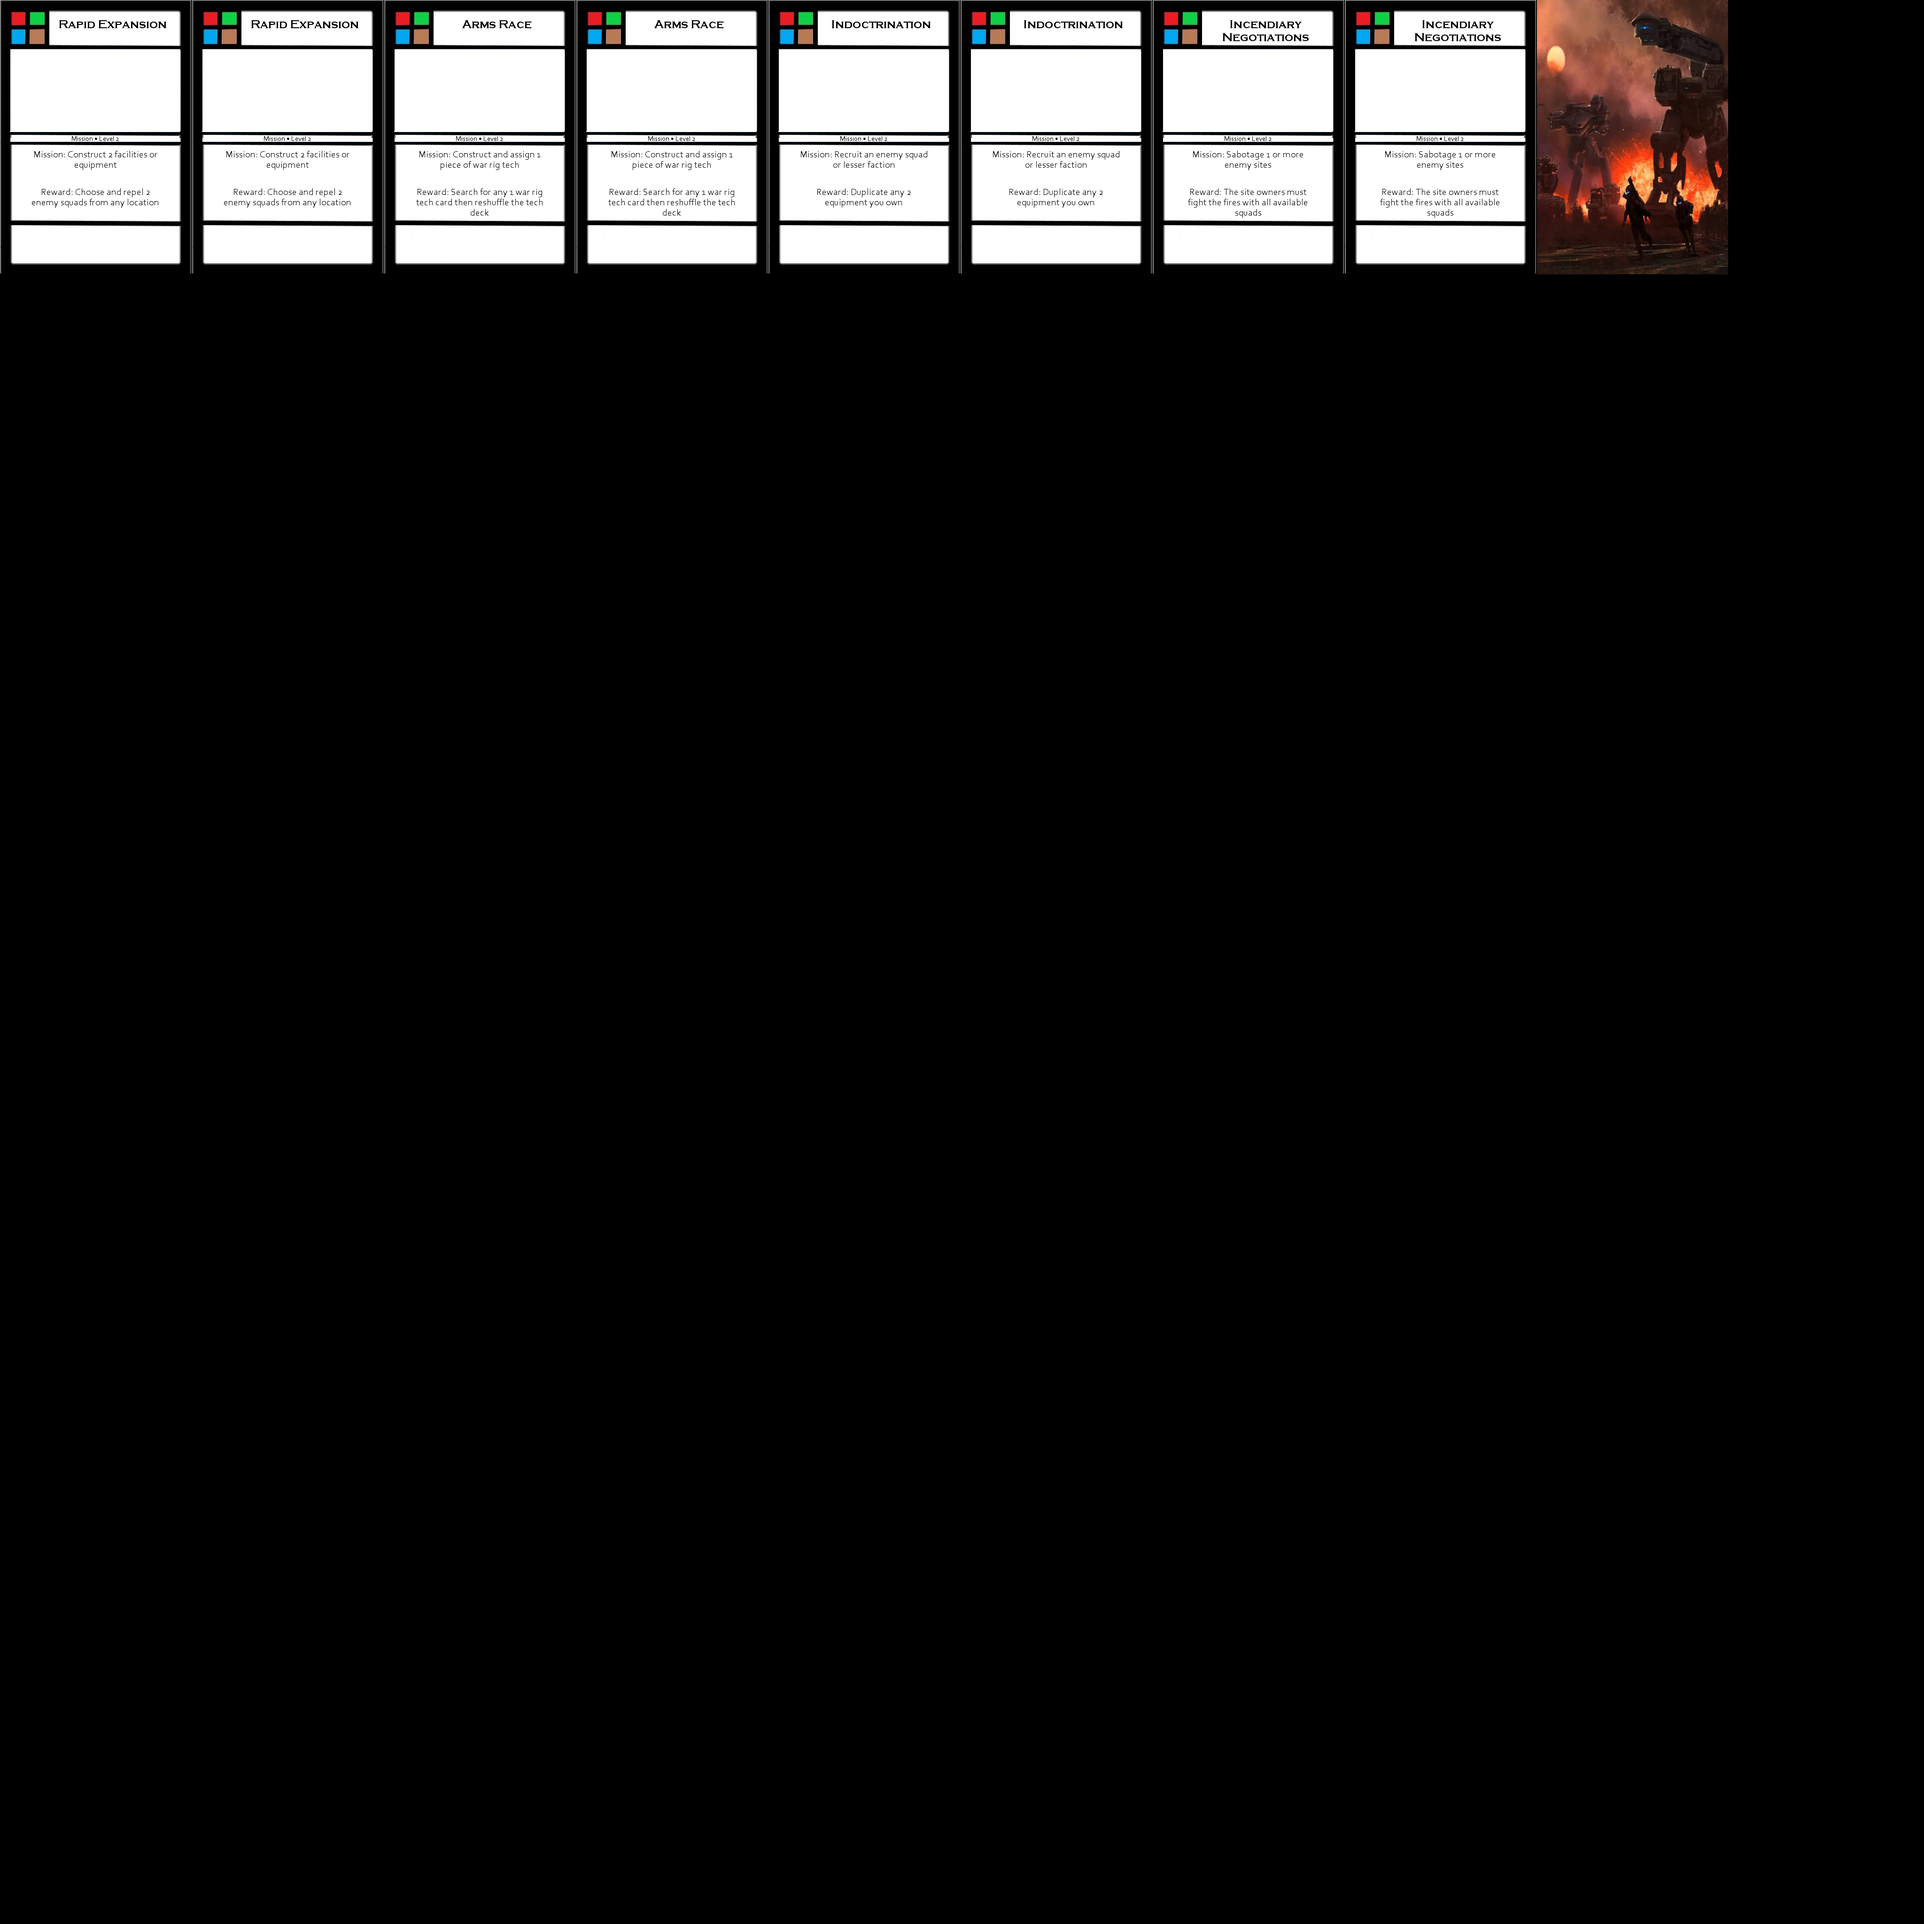
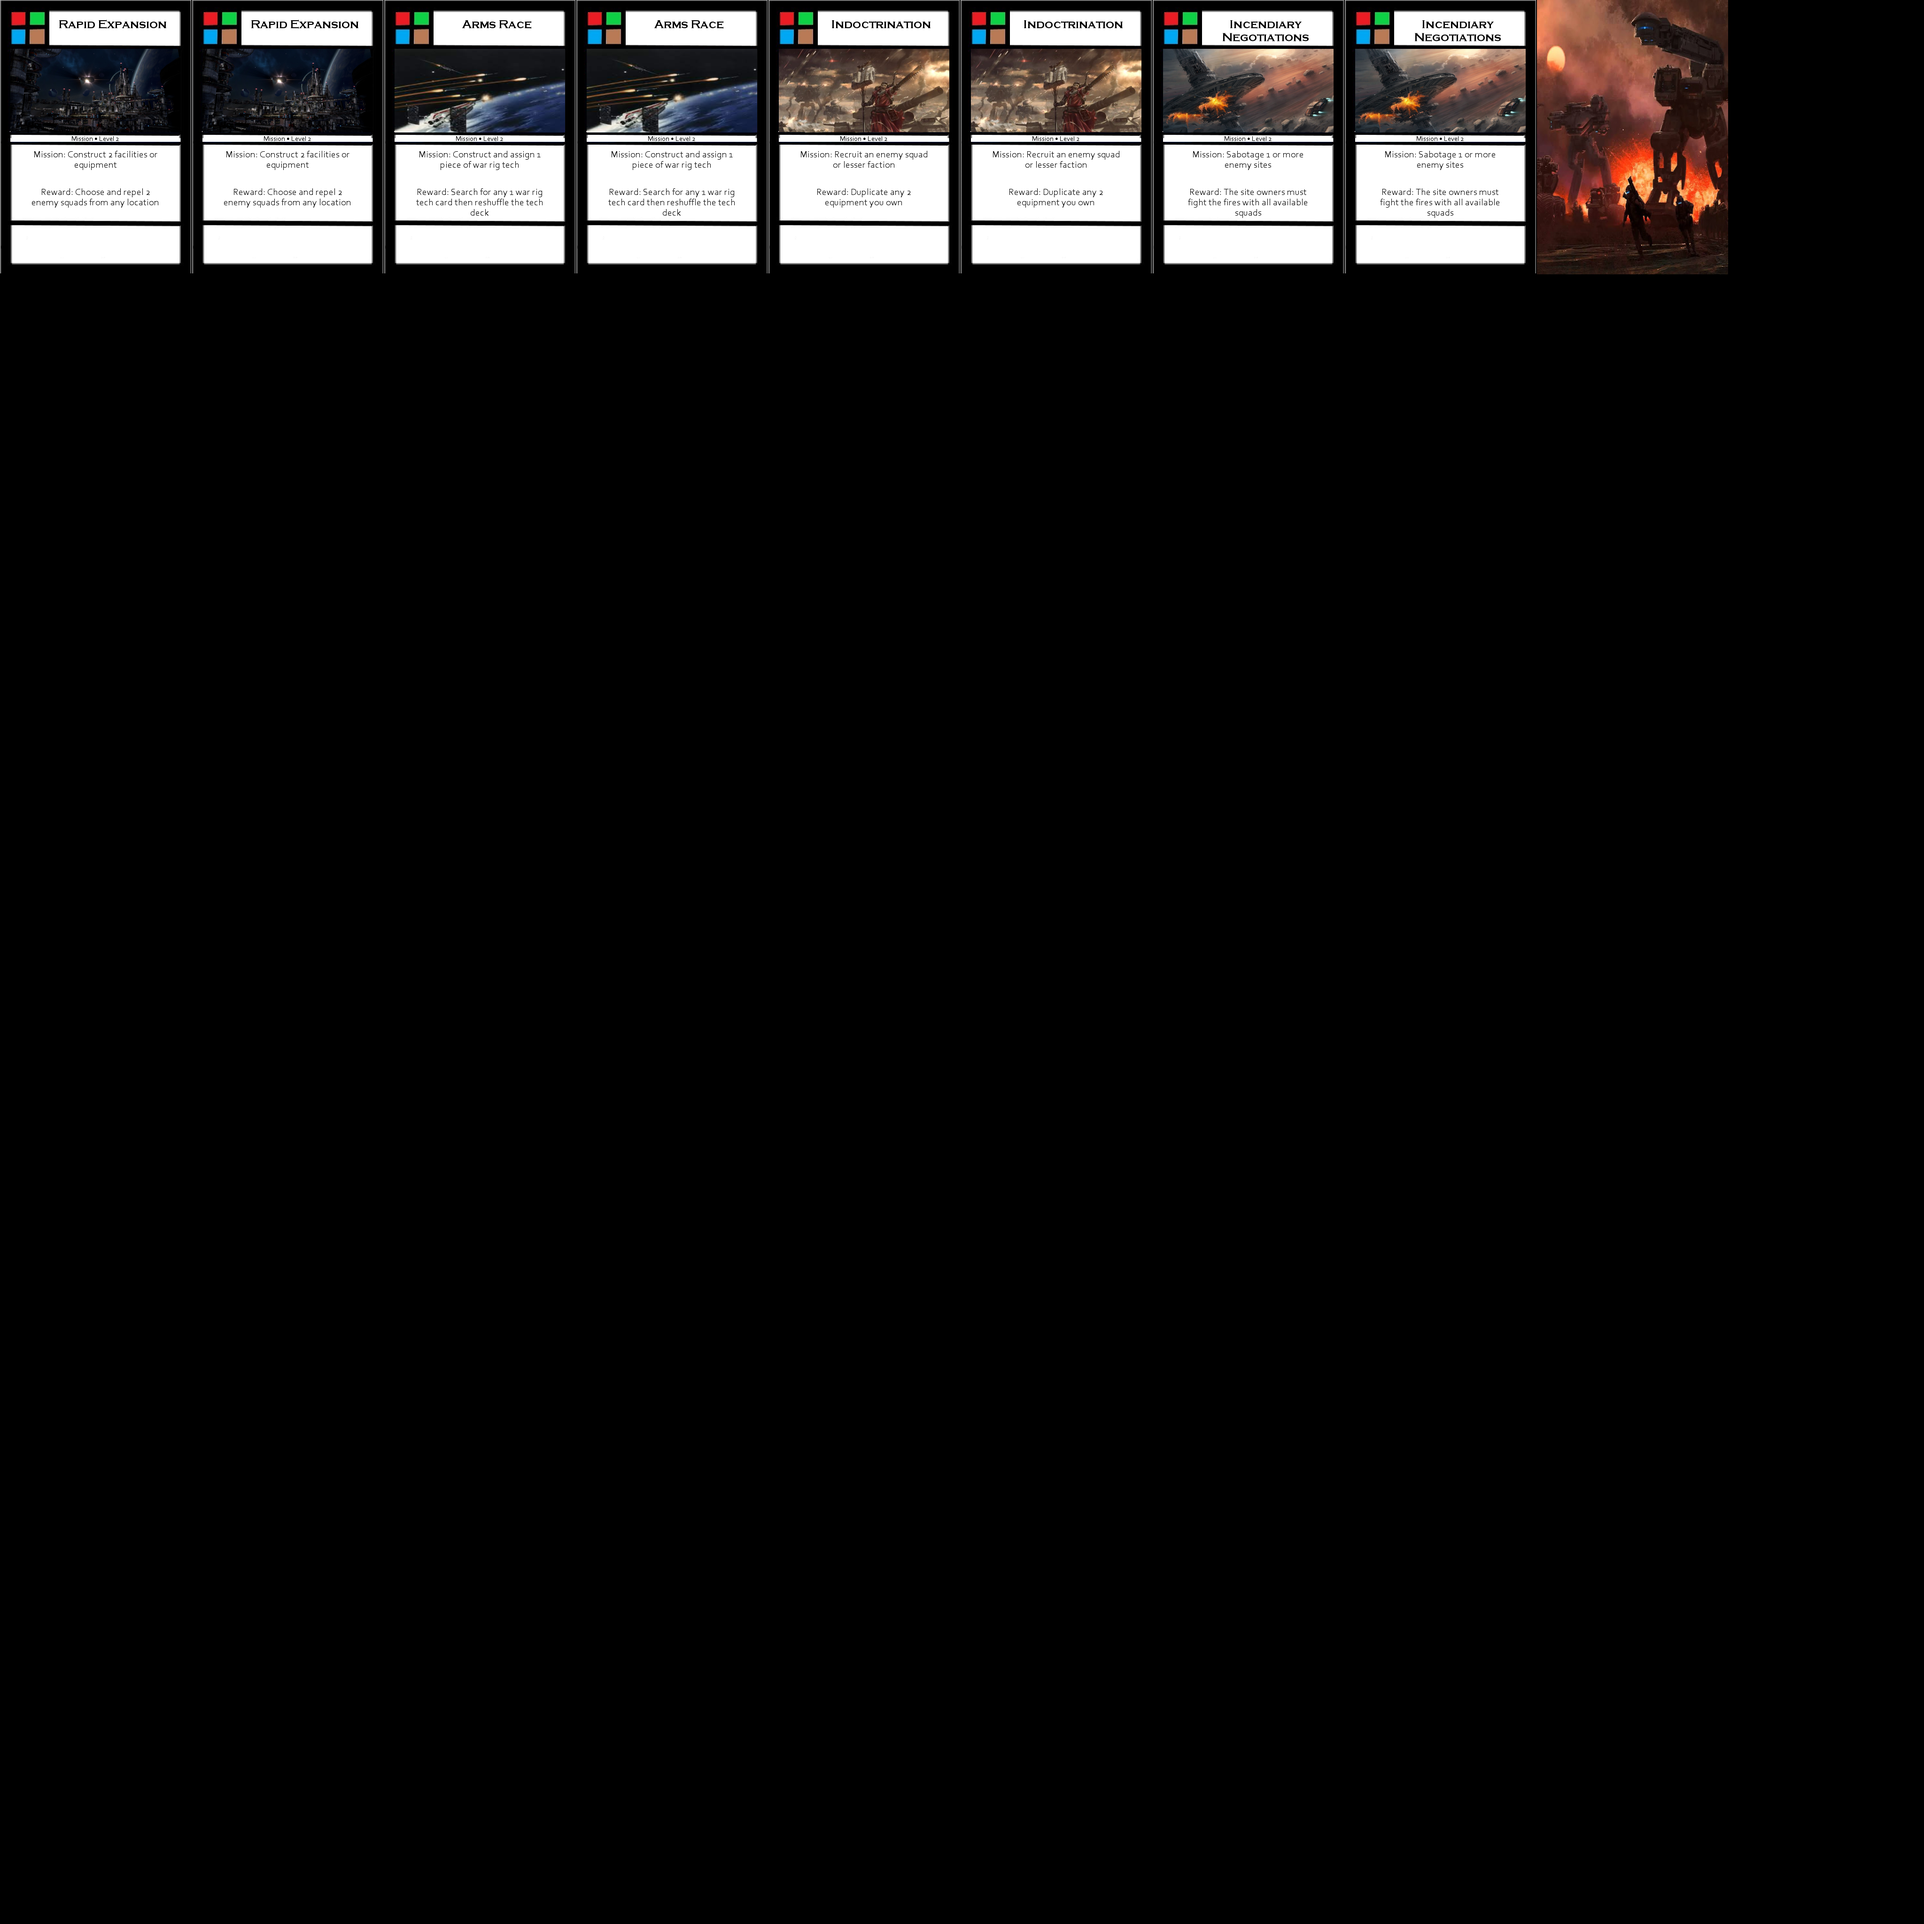
feat: add mission images

Changed region(s): [[0.0, 0.0, 0.8125, 0.0938]]

diff --git a/scripts/cards/buildMissionCards.ts b/scripts/cards/buildMissionCards.ts
@@ -12,8 +12,15 @@ import {
   techPageSpec,
   titleSpec,
   typeSpec,
+  missionCardImages,
+  imageSpec,
 } from "./constants";
-import { drawCardBase, drawCanvas, drawCardText } from "./drawCards";
+import {
+  drawCardBase,
+  drawCanvas,
+  drawCardText,
+  drawCardImage,
+} from "./drawCards";
 
 const fs = require("fs");
 const { loadImage, registerFont } = require("canvas");
@@ -26,6 +33,9 @@ const loadAssets = async () => {
   return {
     baseImages: await Promise.all(
       missionBaseImages.map(async (image) => await loadImage(image))
+    ),
+    cardImages: await Promise.all(
+      missionCardImages.map(async (image) => await loadImage(image))
     ),
     content: await csv().fromFile("./scripts/cards/missionContent.csv"),
   };
@@ -43,6 +53,8 @@ const buildMissions = (outputName: string, content: any[], assets: any) => {
   const endIfHidden = (_, card) => card.title !== "hidden";
   const drawTitle = (loc, card) =>
     drawCardText(loc, card.title, titleSpec, context);
+  const drawImage = (loc, card) =>
+    drawCardImage(loc, card.image, imageSpec, context, assets);
   const drawType = (loc, card) =>
     drawCardText(loc, card.type, typeSpec, context);
   const drawDescription = (loc, card) =>
@@ -54,6 +66,7 @@ const buildMissions = (outputName: string, content: any[], assets: any) => {
     drawBase,
     endIfHidden,
     drawTitle,
+    drawImage,
     drawType,
     drawDescription,
     drawReward,

diff --git a/scripts/cards/constants.ts b/scripts/cards/constants.ts
@@ -72,9 +72,31 @@ export const costSpec: CostSpec = {
   colour: "#FFF",
 };
 
+export const imageSpec: ImageSpec = {
+  xOffset: 22,
+  yOffset: 104,
+  width: 363,
+  height: 178,
+};
+
 export const missionBaseImages = [
   "./assets/cards/mission-hidden.png",
   "./assets/cards/card-base.png",
+];
+
+export const missionCardImages = [
+  "./assets/cards/mis-1-1.png",
+  "./assets/cards/mis-1-2.png",
+  "./assets/cards/mis-1-3.png",
+  "./assets/cards/mis-1-4.png",
+  "./assets/cards/mis-1-5.png",
+  "./assets/cards/mis-2-1.png",
+  "./assets/cards/mis-2-2.png",
+  "./assets/cards/mis-2-3.png",
+  "./assets/cards/mis-2-4.png",
+  "./assets/cards/mis-3-1.png",
+  "./assets/cards/mis-3-2.png",
+  "./assets/cards/mis-3-3.png",
 ];
 
 export const techBaseImages = [

diff --git a/scripts/cards/drawCards.ts b/scripts/cards/drawCards.ts
@@ -28,6 +28,23 @@ export const drawCardBase = (
   return true;
 };
 
+export const drawCardImage = (
+  cardLocation: CardLocation,
+  cardImage: number,
+  imageSpec: ImageSpec,
+  context,
+  assets
+) => {
+  context.drawImage(
+    assets.cardImages[cardImage],
+    cardLocation.x + imageSpec.xOffset,
+    cardLocation.y + imageSpec.yOffset,
+    imageSpec.width,
+    imageSpec.height
+  );
+  return true;
+};
+
 export const drawCardText = (
   cardLocation: CardLocation,
   text: string,

diff --git a/scripts/cards/types.ts b/scripts/cards/types.ts
@@ -19,11 +19,9 @@ type CostSpec = {
   colour: string;
 };
 
-type TextSpec = {
+type TextSpec = Offset & {
   width: number;
   height: number;
-  xOffset: number;
-  yOffset: number;
   minFontSize: number;
   maxFontSize: number;
   font: string;
@@ -36,6 +34,13 @@ type CardSpec = Size & {
   perRow: number;
   hGap: number;
   vGap: number;
+};
+
+type ImageSpec = Size & Offset;
+
+type Offset = {
+  xOffset: number;
+  yOffset: number;
 };
 
 type CardLocation = {
